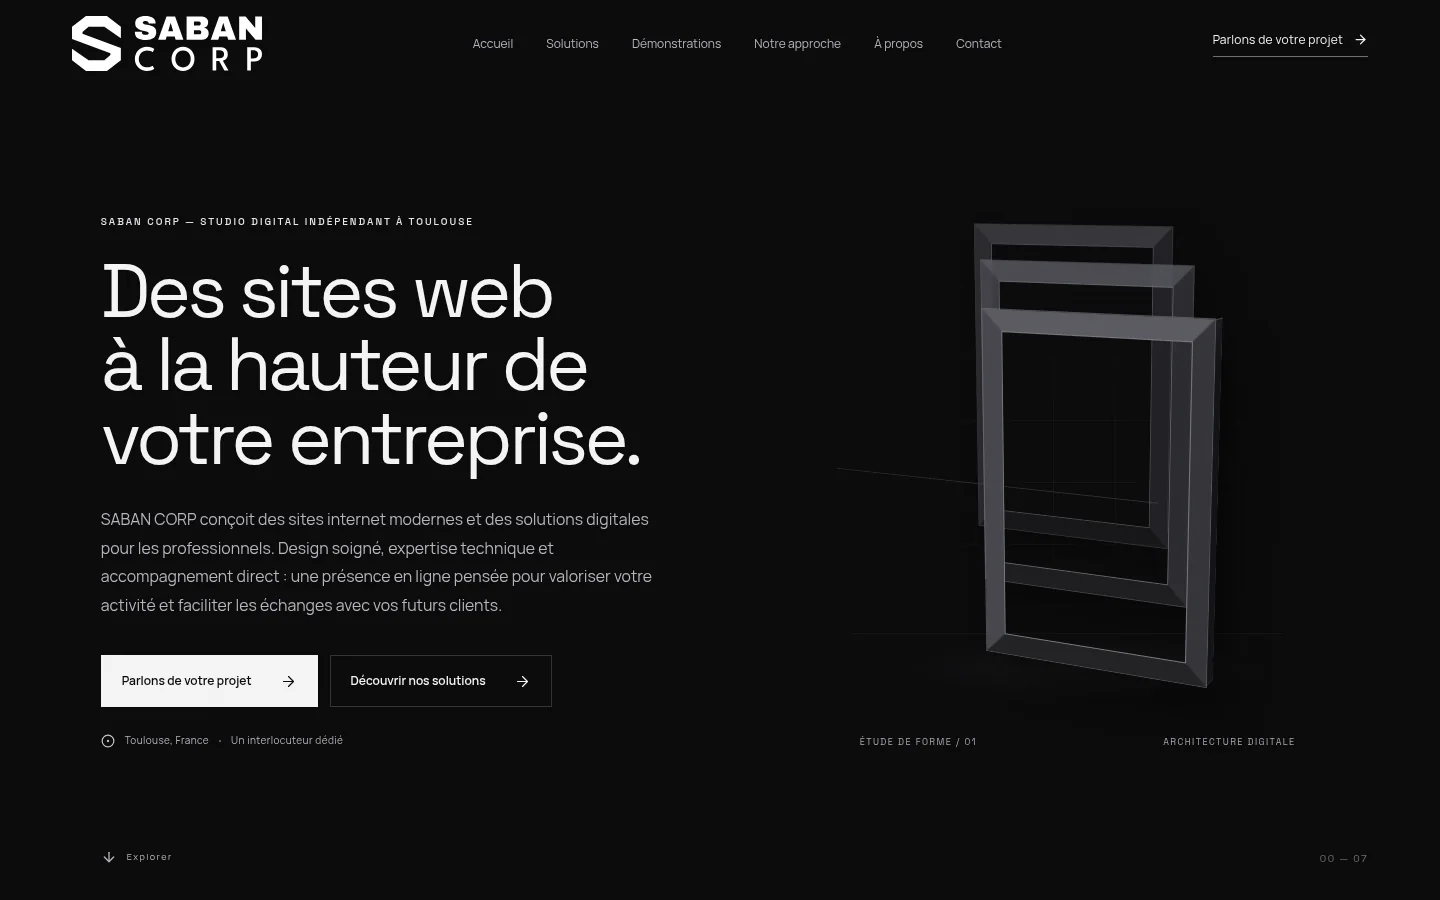
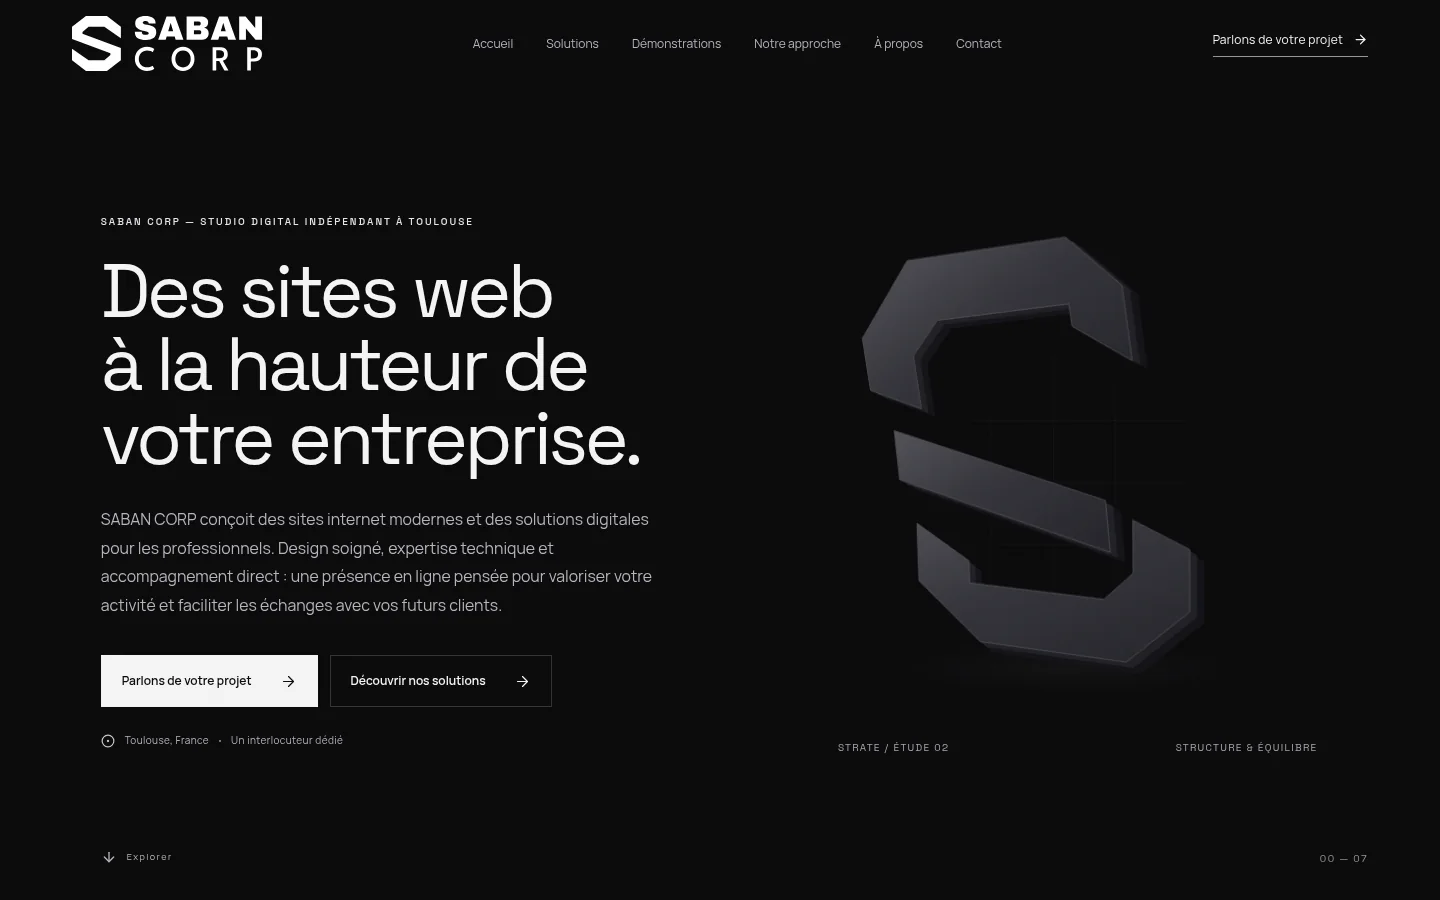
feat: introduce Strate sculpture and diversify internal demos

Changed region(s): [[0.5938, 0.2489, 0.8438, 0.7778], [0.8125, 0.8089, 0.9062, 0.84], [0.5938, 0.8089, 0.6562, 0.84]]

diff --git a/src/index.css b/src/index.css
@@ -357,32 +357,32 @@ footer { background: #080809; padding: 75px clamp(24px, 7vw, 120px) 30px; }
 .hero-content { max-width: 740px; }
 .hero-copy { max-width: 580px; }
 .architecture-scene { position: relative; width: 100%; min-height: 650px; perspective: 1300px; --scene-progress: 0; }
+.strate-scene { perspective: 1450px; }
+.strate-assembly { --sculpture-scale: 1.12; position: absolute; width: 320px; height: 410px; top: 46%; left: 49%; transform-style: preserve-3d; transform: translate(-50%, calc(-50% - var(--scene-progress) * 35px)) scale(var(--sculpture-scale)) rotateX(calc(-12deg + var(--tilt-x, 0deg))) rotateY(calc(-27deg + var(--tilt-y, 0deg) + var(--scene-progress) * 8deg)) rotateZ(-6deg); transition: transform .7s cubic-bezier(.2,.8,.2,1); }
+.strate-tier { position: absolute; inset: 0; transform-style: preserve-3d; }
+.strate-upper { transform: translate3d(-16px, -14px, 60px) rotateZ(-3deg); }
+.strate-bridge { transform: translate3d(0, 0, 100px); }
+.strate-lower { transform: translate3d(14px, 9px, 35px) rotateZ(5deg); }
+.strate-volume { display: block; position: absolute; inset: 0; width: 100%; height: 100%; overflow: visible; }
+.strate-surface { stroke: #5e5e65; stroke-width: .65; stroke-linejoin: bevel; }
 .architecture-grid { position: absolute; inset: 12% 2% 16%; background-image: linear-gradient(rgba(255,255,255,.035) 1px, transparent 1px), linear-gradient(90deg, rgba(255,255,255,.035) 1px, transparent 1px); background-size: 62px 62px; mask-image: radial-gradient(ellipse, #000, transparent 75%); transform: translate(var(--shift-x, 0px), var(--shift-y, 0px)); transition: transform .8s ease; }
-.architecture-object { position: absolute; width: 320px; height: 410px; top: 45%; left: 50%; transform-style: preserve-3d; transform: translate(-50%, calc(-50% + var(--scene-progress) * -55px)) rotateX(calc(-13deg + var(--tilt-x, 0deg))) rotateY(calc(-25deg + var(--tilt-y, 0deg))); transition: transform .65s cubic-bezier(.2,.8,.2,1); }
-.portal { position: absolute; width: 230px; height: 340px; top: 30px; left: 40px; border: 20px solid #35353a; border-top-color: #5b5b62; border-left-color: #47474d; border-bottom-color: #222225; background: transparent; box-shadow: 18px 22px 35px rgba(0,0,0,.4), inset 0 0 0 1px #777780; transform-style: preserve-3d; }
-.portal::before { content: ""; position: absolute; inset: -21px; border: 1px solid #75757e; opacity: .65; }
-.portal i { position: absolute; width: 20px; height: calc(100% + 40px); right: -40px; top: -20px; transform: rotateY(90deg); transform-origin: left; background: #1b1b1f; border: 1px solid #414147; }
-.portal-back { transform: translate3d(-45px, -40px, -115px); opacity: .55; }
-.portal-middle { transform: translate3d(9px, -7px, -30px); opacity: .8; }
-.portal-front { transform: translate3d(67px, 31px, 75px); }
-.architecture-axis { position: absolute; height: 1px; width: 340px; background: #54545d; top: 54%; left: -40px; transform: translateZ(110px); opacity: .45; }
 .architecture-floor { position: absolute; width: 84%; height: 150px; left: 8%; top: 67%; background: radial-gradient(ellipse, rgba(255,255,255,.035), transparent 65%); border-top: 1px solid rgba(255,255,255,.08); transform: rotateX(70deg); }
-.architecture-caption { position: absolute; left: 12%; right: 8%; bottom: 9%; display: flex; justify-content: space-between; gap: 20px; font: 9px var(--font-display); letter-spacing: .16em; color: var(--meta-text); }
+.architecture-caption { position: absolute; left: 8%; right: 4%; bottom: 8%; display: flex; justify-content: space-between; gap: 20px; font: 10px var(--font-display); letter-spacing: .13em; color: var(--meta-text); }
 .showcase-list { border-top: 1px solid var(--border); }
 .showcase-row { display: grid; grid-template-columns: minmax(0, 1.35fr) minmax(0, .65fr); gap: clamp(40px, 6vw, 90px); align-items: center; padding: 64px 0; border-bottom: 1px solid var(--border); }
 .showcase-row:nth-child(2) { grid-template-columns: minmax(0, .65fr) minmax(0, 1.35fr); }
 .showcase-row:nth-child(2) .demo-stage { grid-column: 2; grid-row: 1; }
 .showcase-row:nth-child(2) .showcase-copy { grid-column: 1; grid-row: 1; }
-.showcase-category { display: flex; gap: 18px; align-items: center; color: var(--meta-text); font: 9px var(--font-display); letter-spacing: .16em; line-height: 1.7; }
+.showcase-category { display: flex; gap: 18px; align-items: center; color: var(--meta-text); font: 10px var(--font-display); letter-spacing: .13em; line-height: 1.7; }
 .showcase-category > span { color: var(--text); font-size: 12px; }
 .showcase-copy h3 { margin: 30px 0 22px; font-size: clamp(26px, 2.7vw, 38px); line-height: 1.13; letter-spacing: -.04em; font-weight: 400; }
-.showcase-copy p { color: var(--muted); font-size: 13px; line-height: 1.8; }
+.showcase-copy p { color: var(--muted); font-size: 14px; line-height: 1.8; }
 .showcase-link { display: inline-flex; align-items: center; gap: 26px; padding: 16px 0; margin-top: 22px; border-bottom: 1px solid var(--border); font-size: 12px; }
 .showcase-link svg { transition: transform .25s ease; }
 .showcase-link:hover svg { transform: translateX(5px); }
 .demo-stage { min-height: 550px; position: relative; overflow: hidden; background: radial-gradient(ellipse at 50% 44%, #242428, #121214 72%); border: 1px solid var(--border); perspective: 1400px; }
 .demo-stage-grid { position: absolute; inset: 0; background-image: linear-gradient(rgba(255,255,255,.025) 1px, transparent 1px), linear-gradient(90deg, rgba(255,255,255,.025) 1px, transparent 1px); background-size: 60px 60px; mask-image: linear-gradient(transparent, #000); }
-.demo-stage-note { position: absolute; bottom: 24px; left: 26px; font: 9px var(--font-display); letter-spacing: .14em; color: var(--meta-text); }
+.demo-stage-note { position: absolute; bottom: 24px; left: 26px; right: 18px; font: 10px/1.5 var(--font-display); letter-spacing: .1em; color: var(--meta-text); }
 .device-composition { position: absolute; inset: 0; transform-style: preserve-3d; transform: rotateX(var(--tilt-x, 0deg)) rotateY(var(--tilt-y, 0deg)); transition: transform .7s cubic-bezier(.2,.8,.2,1); }
 .device { position: absolute; top: 47%; left: 50%; transform-style: preserve-3d; }
 .device-shell { padding: 10px; border: 1px solid #5b5b65; border-radius: 13px; background: #111113; box-shadow: 6px 6px 0 #060607, 20px 32px 35px rgba(0,0,0,.5); position: relative; }
@@ -418,7 +418,7 @@ footer { background: #080809; padding: 75px clamp(24px, 7vw, 120px) 30px; }
 @media (max-width: 1100px) {
   .hero { grid-template-columns: minmax(0, 1.1fr) minmax(300px, .9fr); }
   .architecture-scene { min-height: 560px; }
-  .architecture-object { scale: .82; }
+  .strate-assembly { --sculpture-scale: .85; }
   .showcase-row, .showcase-row:nth-child(2) { grid-template-columns: minmax(0, 1.2fr) minmax(0, .8fr); gap: 32px; }
   .demo-stage { min-height: 480px; }
   .device-tablet { width: 240px; }
@@ -428,8 +428,8 @@ footer { background: #080809; padding: 75px clamp(24px, 7vw, 120px) 30px; }
   .hero { grid-template-columns: 1fr; }
   .hero-sculpture { margin-top: 35px; }
   .architecture-scene { min-height: 470px; }
-  .architecture-object { scale: .82; top: 43%; }
-  .architecture-caption { left: 4%; right: 4%; bottom: 3%; font-size: 8px; }
+  .strate-assembly { --sculpture-scale: .85; top: 44%; }
+  .architecture-caption { left: 4%; right: 4%; bottom: 3%; font-size: 9px; }
   .showcase-row, .showcase-row:nth-child(2) { grid-template-columns: 1fr; gap: 38px; padding: 44px 0; }
   .showcase-row:nth-child(2) .demo-stage, .showcase-row:nth-child(2) .showcase-copy { grid-column: auto; grid-row: auto; }
   .demo-stage { min-height: 440px; }
@@ -441,7 +441,7 @@ footer { background: #080809; padding: 75px clamp(24px, 7vw, 120px) 30px; }
 }
 @media (max-width: 520px) {
   .architecture-scene { min-height: 380px; }
-  .architecture-object { scale: .66; left: 42%; }
+  .strate-assembly { --sculpture-scale: .72; left: 48%; }
   .architecture-caption { letter-spacing: .08em; }
   .demo-stage-laptop { min-height: 310px; }
   .demo-stage-phone { min-height: 450px; }
@@ -449,7 +449,7 @@ footer { background: #080809; padding: 75px clamp(24px, 7vw, 120px) 30px; }
   .device-phone { width: 168px; }
   .device-tablet { width: 210px; left: 39%; }
   .demo-stage-tablet .device-phone { width: 110px; left: 72%; }
-  .demo-stage-note { left: 18px; font-size: 8px; }
+  .demo-stage-note { left: 18px; font-size: 9px; }
   .showcase-copy h3 { font-size: 30px; }
   .portrait-frame { padding: 10px; }
   .architecture-grid { opacity: .5; }
@@ -459,7 +459,7 @@ footer { background: #080809; padding: 75px clamp(24px, 7vw, 120px) 30px; }
   .device-phone { transform: translate(-50%, -50%) rotateY(4deg) rotateZ(-3deg); }
 }
 @media (prefers-reduced-motion: reduce) {
-  .architecture-grid, .architecture-object, .device-composition { transition: none; }
-  .architecture-object { transform: translate(-50%, -50%) rotateX(-13deg) rotateY(-25deg); }
+  .architecture-grid, .strate-assembly, .device-composition { transition: none; }
+  .strate-assembly { transform: translate(-50%, -50%) scale(var(--sculpture-scale)) rotateX(-12deg) rotateY(-27deg) rotateZ(-6deg); }
   .device-composition { transform: none; }
 }

diff --git a/src/components/Showcase.tsx b/src/components/Showcase.tsx
@@ -25,15 +25,15 @@ const demos = [
     cta: "Découvrir les solutions", href: "#solutions",
   },
   {
-    number: "02", kind: "phone" as const, category: "LE PARCOURS MOBILE",
-    title: "La même exigence. Sur chaque écran.",
-    text: "Une navigation simple, des contenus lisibles et une prise de contact accessible. Cette preview montre notre site dans sa version mobile.",
+    number: "02", kind: "phone" as const, category: "LE CONTACT MOBILE",
+    title: "Un premier échange, simplement.",
+    text: "Un formulaire lisible, des champs utiles et une demande facile à préparer. Cette démonstration présente le contact SABAN CORP sur mobile.",
     cta: "Parlons de votre projet", href: "#contact",
   },
   {
-    number: "03", kind: "tablet" as const, category: "UNE EXPÉRIENCE COHÉRENTE",
+    number: "03", kind: "tablet" as const, category: "LES OFFRES & LA MÉTHODE",
     title: "Des interfaces pensées comme un ensemble.",
-    text: "De la présentation des offres au premier échange, chaque détail participe à une expérience cohérente. Découvrez nos interfaces sur tablette et mobile.",
+    text: "Des offres compréhensibles et une démarche expliquée étape par étape. Ces deux vues réelles de SABAN CORP présentent les solutions sur tablette et la méthode sur mobile.",
     cta: "Découvrir notre approche", href: "#approche",
   },
 ];
@@ -45,13 +45,13 @@ function DemoStage({ kind }: { kind: DeviceKind }) {
       <div className="demo-stage-grid" aria-hidden="true" />
       <div className="device-composition">
         {kind === "laptop" && <Device kind="laptop" image="/images/previews/saban-desktop.webp" alt="Capture réelle du hero SABAN CORP sur ordinateur." width={1440} height={900} />}
-        {kind === "phone" && <Device kind="phone" image="/images/previews/saban-mobile.webp" alt="Capture réelle du site SABAN CORP sur mobile." width={390} height={844} />}
+        {kind === "phone" && <Device kind="phone" image="/images/previews/saban-mobile.webp" alt="Capture réelle du formulaire de contact SABAN CORP sur mobile." width={390} height={844} />}
         {kind === "tablet" && <>
           <Device kind="tablet" image="/images/previews/saban-tablet.webp" alt="Capture réelle des offres SABAN CORP sur tablette." width={768} height={1024} />
-          <Device kind="phone" image="/images/previews/saban-mobile.webp" alt="La même expérience SABAN CORP dans sa version mobile." width={390} height={844} />
+          <Device kind="phone" image="/images/previews/saban-method-mobile.webp" alt="Capture réelle de la méthode SABAN CORP sur mobile." width={390} height={844} />
         </>}
       </div>
-      <span className="demo-stage-note">SABAN CORP / PREVIEW INTERNE</span>
+      <span className="demo-stage-note">SABAN CORP / DÉMONSTRATION INTERNE</span>
     </div>
   );
 }

diff --git a/src/components/StrateSculpture.tsx b/src/components/StrateSculpture.tsx
@@ -1,7 +1,34 @@
 import { useEffect } from "react";
 import { useDepthMotion } from "./useDepthMotion";
 
-export default function ArchitecturalScene() {
+// Independent architectural geometry, not the official emblem's vector paths.
+const planes = [
+  { name: "upper", path: "M26 96 89 30H256L304 78V144L250 108V88H112L80 118V168L26 146Z" },
+  { name: "bridge", path: "M56 172 266 238V284L56 218Z" },
+  { name: "lower", path: "M14 278 72 310V332H216L246 304V254L302 276V334L238 390H82L14 336Z" },
+];
+
+function StratePlane({ name, path }: { name: string; path: string }) {
+  return (
+    <div className={`strate-tier strate-${name}`}>
+      <svg className="strate-volume" viewBox="0 0 340 430" focusable="false">
+        <defs>
+          <linearGradient id={`strate-${name}-satin`} x1="0" y1="0" x2="1" y2="1">
+            <stop offset="0" stopColor="#535359" />
+            <stop offset=".45" stopColor="#36363c" />
+            <stop offset="1" stopColor="#25252b" />
+          </linearGradient>
+        </defs>
+        {/* Static bevels share one SVG surface; only the three tiers tilt in CSS. */}
+        <path d={path} transform="translate(14 9)" fill="#141418" />
+        <path d={path} transform="translate(7 4.5)" fill="#212126" />
+        <path className="strate-surface" d={path} fill={`url(#strate-${name}-satin)`} />
+      </svg>
+    </div>
+  );
+}
+
+export default function StrateSculpture() {
   const motion = useDepthMotion(10);
 
   useEffect(() => {
@@ -53,16 +80,13 @@ export default function ArchitecturalScene() {
   }, [motion.ref]);
 
   return (
-    <div className="architecture-scene" {...motion} aria-hidden="true">
+    <div className="architecture-scene strate-scene" {...motion} aria-hidden="true">
       <div className="architecture-grid" />
       <div className="architecture-floor" />
-      <div className="architecture-object">
-        <div className="portal portal-back"><i /></div>
-        <div className="portal portal-middle"><i /></div>
-        <div className="portal portal-front"><i /></div>
-        <div className="architecture-axis" />
+      <div className="strate-assembly">
+        {planes.map((plane) => <StratePlane {...plane} key={plane.name} />)}
       </div>
-      <div className="architecture-caption"><span>ÉTUDE DE FORME / 01</span><span>ARCHITECTURE DIGITALE</span></div>
+      <div className="architecture-caption"><span>STRATE / ÉTUDE 02</span><span>STRUCTURE & ÉQUILIBRE</span></div>
     </div>
   );
 }

diff --git a/src/App.tsx b/src/App.tsx
@@ -1,6 +1,6 @@
 import { useEffect, useRef, useState } from "react";
 import LegalPage, { type LegalPageKind } from "./LegalPages";
-import ArchitecturalScene from "./components/ArchitecturalScene";
+import StrateSculpture from "./components/StrateSculpture";
 import Showcase from "./components/Showcase";
 import {
   ArrowDown,
@@ -330,7 +330,7 @@ function App() {
             </div>
             <div className="trust-line"><CircleDot size={14} /> Toulouse, France <i /> Un interlocuteur dédié</div>
           </div>
-          <div className="hero-sculpture"><ArchitecturalScene /></div>
+          <div className="hero-sculpture"><StrateSculpture /></div>
           <a href="#mission" className="scroll-cue"><ArrowDown size={16} /> Explorer</a>
           <span className="hero-index">00 — 07</span>
         </section>

diff --git a/scripts/capture-previews.py b/scripts/capture-previews.py
@@ -16,14 +16,15 @@ BASE = os.environ.get("CAPTURE_BASE_URL", "http://127.0.0.1:5173")
 with sync_playwright() as playwright:
     browser = playwright.chromium.launch(executable_path="/usr/bin/chromium", args=["--no-sandbox"])
     for name, width, height, section in [
-        ("desktop", 1440, 900, None), ("mobile", 390, 844, None),
+        ("desktop", 1440, 900, None), ("mobile", 390, 844, ".contact-form"),
         ("tablet", 768, 1024, "#solutions"),
+        ("method-mobile", 390, 844, "#approche"),
     ]:
         page = browser.new_page(viewport={"width": width, "height": height}, reduced_motion="reduce")
         page.goto(BASE, wait_until="networkidle")
         page.evaluate("document.fonts.ready")
         if section:
-            page.locator(section).evaluate("el => window.scrollTo(0, el.offsetTop - 76)")
+            page.locator(section).evaluate("el => window.scrollTo(0, el.getBoundingClientRect().top + window.scrollY - 76)")
         page.wait_for_timeout(200)
         png = OUT / f"saban-{name}.png"
         page.screenshot(path=str(png))

diff --git a/docs/brand-experience-v2-1.md b/docs/brand-experience-v2-1.md
@@ -1,0 +1,38 @@
+# SABAN CORP V2.1 — Sculpture STRATE et polish ciblé
+
+Base : `feat/brand-experience-v2`, commit `c85ad29`. Branche : `feat/strate-sculpture-v2-1`. La PR cible la V2 ; aucune fusion automatique.
+
+## Sculpture et hero
+
+`src/components/StrateSculpture.tsx` remplace les cadres V2. Trois volumes angulaires indépendants, asymétriques et séparés en profondeur évoquent le rythme du S STRATE. Leur géométrie est créée pour la sculpture : elle ne copie pas les tracés SVG du logo officiel, qui reste flat et inchangé.
+
+Les volumes combinent CSS 3D et biseaux SVG statiques, avec trois surfaces principales. Le matériau reste graphite mat/satiné, sans chrome, or ou néon. Le pointeur et le scroll utilisent les mécanismes V2 existants, limités avec `requestAnimationFrame` et arrêtés hors écran. Les interactions sont désactivées sur touch et en mouvement réduit. L’apparition du hero et la disposition de ses CTA sont conservées.
+
+Le prototype à nombreuses faces superposées a été remplacé après une mesure défavorable en mouvement. Avec les trois surfaces finales, un échantillon Chromium headless de 120 frames au repos puis pendant un mouvement synthétique donne environ 16,7 ms de médiane et de p95, sans intervalle supérieur à 33,5 ms. Ce test local n’est pas un benchmark sur matériel physique.
+
+## Démonstrations diversifiées
+
+Aucune capture NaturelÂme ou autre projet autorisé n’a été trouvée dans le dépôt ou les archives fournies. Les devices existants affichent donc quatre vues distinctes et réelles de SABAN CORP, avec le label « DÉMONSTRATION INTERNE ». Aucun client, résultat ni réalisation externe n’est ajouté.
+
+| Asset | Contenu réel | Dimensions |
+| --- | --- | --- |
+| `saban-desktop.webp` | Hero avec sculpture STRATE | 1440 × 900 |
+| `saban-mobile.webp` | Formulaire de contact vide, sans soumission | 390 × 844 |
+| `saban-tablet.webp` | Offres | 768 × 1024 |
+| `saban-method-mobile.webp` | Méthode | 390 × 844 |
+
+Ces captures sont dans `public/images/previews`, générées avec `scripts/capture-previews.py`, et totalisent environ 99 Ko. Elles sont différées au chargement et leur espace est réservé. Le script utilise les coordonnées document des éléments pour cadrer correctement le formulaire. Les titres, textes, catégories et alt des démonstrations décrivent leur contenu réel.
+
+## Polish et non-régression
+
+Les petites légendes et les descriptions des démonstrations deviennent plus lisibles. L’encadrement, la palette et le rythme commercial V2 sont conservés. Aucun nouveau paquet applicatif : JavaScript gzip 83,88 Ko contre 83,47 Ko en V2 ; CSS gzip 8,49 Ko contre 8,56 Ko.
+
+Les offres et prix, méthode, portrait, logo, formulaire et mécanisme POST, textes juridiques, ancres, configuration Netlify et dépendances sont inchangés. Les comparaisons avec la base V2 vérifient directement ces éléments protégés.
+
+## Vérifications
+
+Installation figée, TypeScript et build Vite ; Chromium à 1440 × 900, 1024 × 768, 768 × 1024, 390 × 844 et 375 × 812. Images et fontes locales chargées, aucun débordement horizontal ni erreur JavaScript. CLS du build final mesuré à 0 aux cinq résolutions.
+
+Navigation clavier, focus du menu, Échap, liens et routes juridiques, pointeur, mouvement réduit et navigation tactile vérifiés. Formulaire testé avec validation des champs, chargement, prévention des doubles soumissions, succès et erreur HTTP simulés. Aucune réception réelle dans Netlify n’est revendiquée.
+
+Le build preview conserve `noindex` et le build normal reste indexable. La preview publiée doit être inspectée après authentification si Netlify la protège. Réception réelle du formulaire et validation visuelle finale à confirmer par le propriétaire avant toute fusion.

diff --git a/README.md b/README.md
@@ -43,6 +43,8 @@ Les scènes du hero et des appareils utilisent CSS 3D, avec des interactions lim
 
 Voir [le rapport V2](docs/brand-experience-v2.md) pour la provenance des assets, leur régénération et les vérifications.
 
+La V2.1 remplace l’objet du hero par une sculpture STRATE et différencie les captures des démonstrations : hero, contact, offres et méthode. Le [rapport V2.1](docs/brand-experience-v2-1.md) détaille cette évolution ciblée et les tests.
+
 ## Activation et vérification Netlify Forms
 
 1. Vérifier que la détection des formulaires est activée pour le site Netlify. Déployer le build contenant le formulaire statique de `index.html`, puis vérifier que le formulaire `contact` apparaît dans l'espace Forms de Netlify. Si un formulaire est détecté pour la première fois, un nouveau déploiement peut être nécessaire après activation de la détection.

diff --git a/docs/brand-experience-v2.md b/docs/brand-experience-v2.md
@@ -1,5 +1,7 @@
 # SABAN CORP — Brand experience V2
 
+Ce rapport décrit la V2 initiale. Pour la sculpture et les captures actuelles de la V2.1, voir [le rapport V2.1](brand-experience-v2-1.md).
+
 Base : `feat/figma-integration`, commit `962e96a` (V1.4). Travail sur `feat/brand-experience-v2`.
 
 ## Audit et choix techniques
